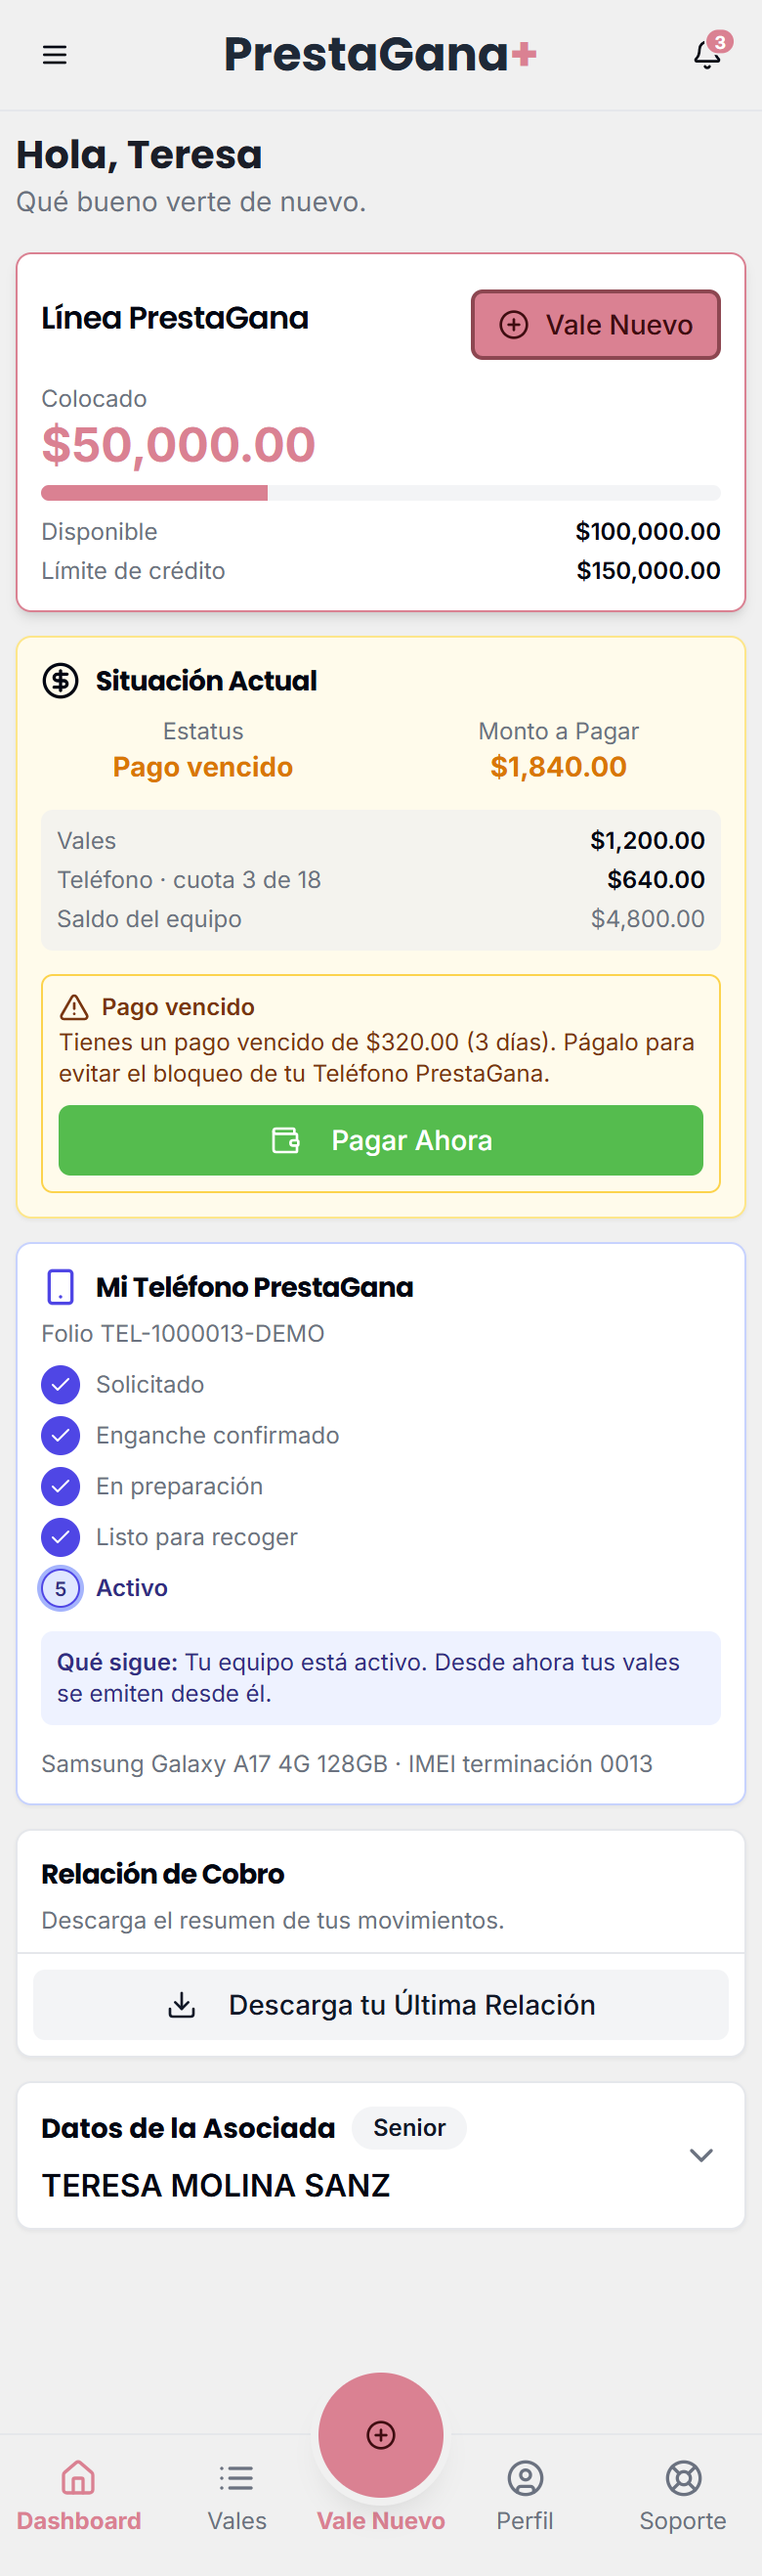
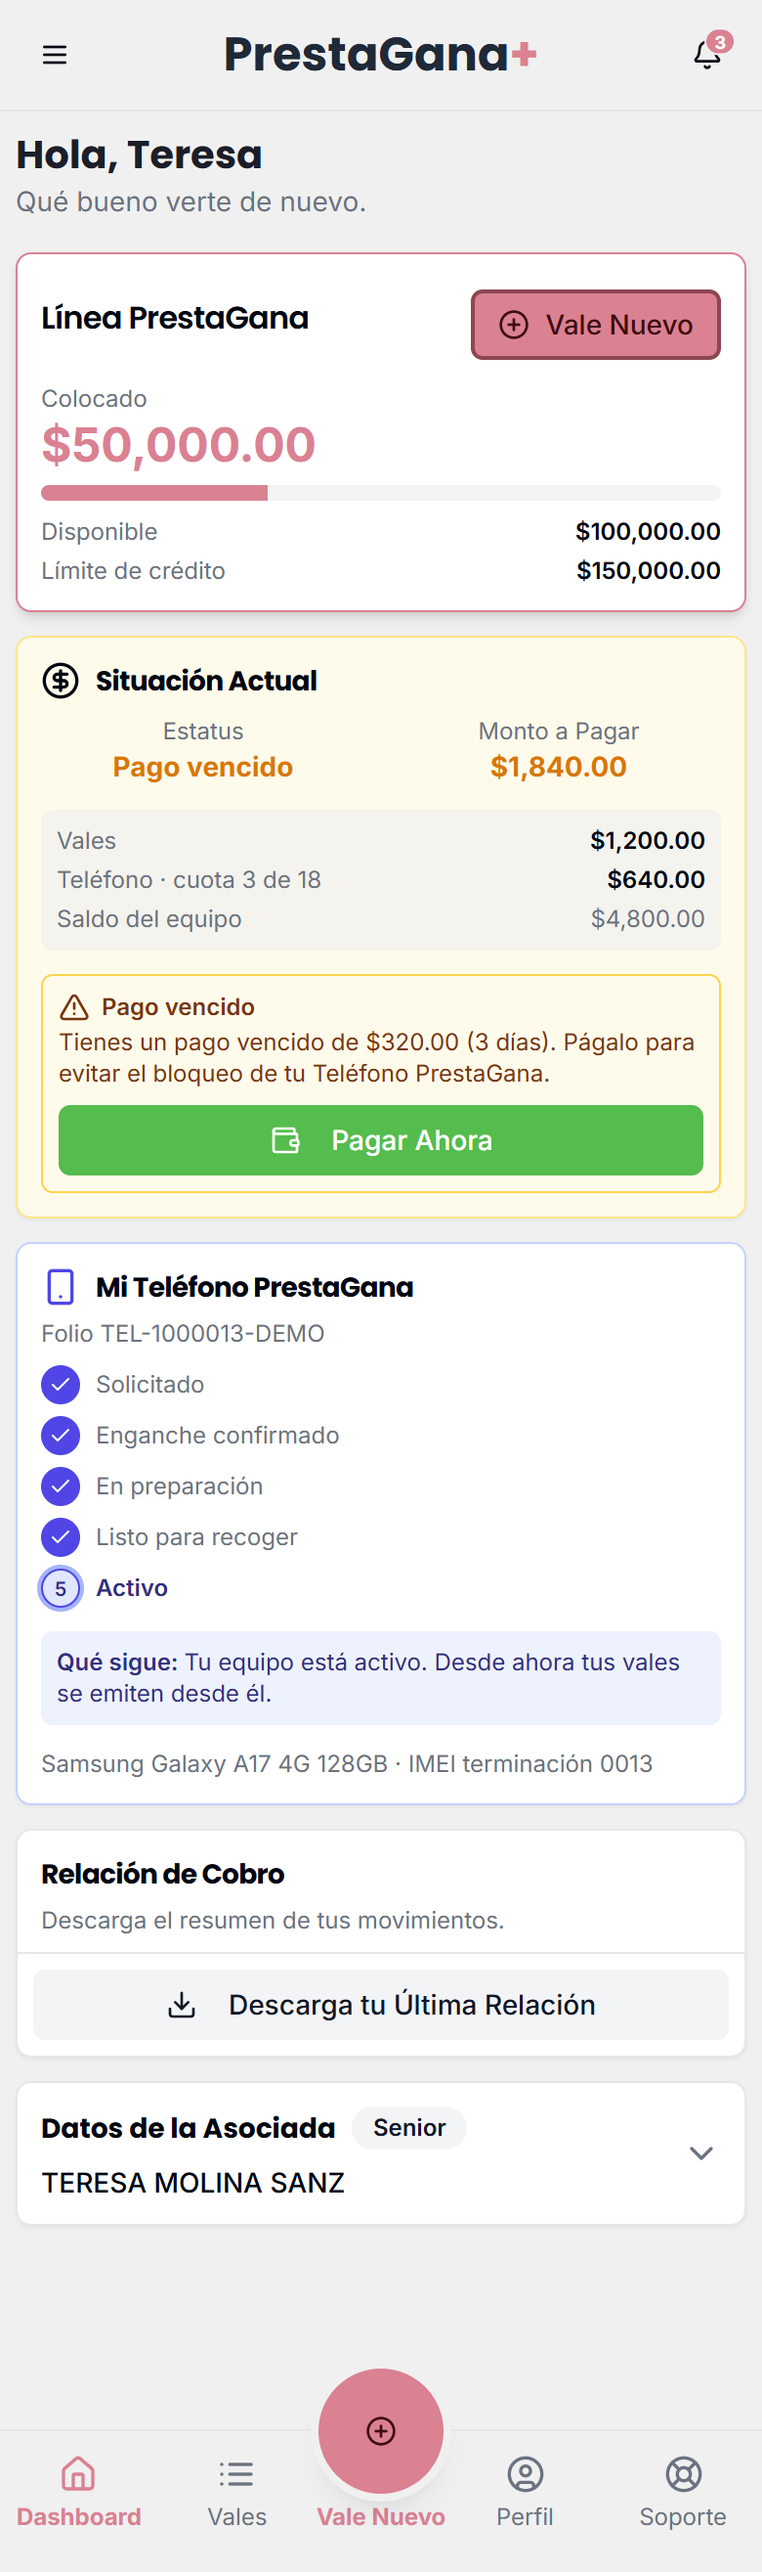
Match associate name size to card titles
The name in "Datos de la Asociada" used text-base, larger than the
text-sm card titles. After screenshots updated.

diff --git a/src/components/distributor-dashboard.tsx b/src/components/distributor-dashboard.tsx
@@ -217,7 +217,7 @@ const DistributorInfoCard = ({ data }: { data: any }) => {
                             </span>
                         )}
                     </span>
-                    <span className="block font-semibold text-base leading-tight">{data.associateInfo.name}</span>
+                    <span className="block text-sm font-medium leading-tight">{data.associateInfo.name}</span>
                 </span>
                 <ChevronDown className="h-5 w-5 flex-shrink-0 text-muted-foreground transition-transform duration-200 group-data-[state=open]:rotate-180" />
             </CollapsibleTrigger>
